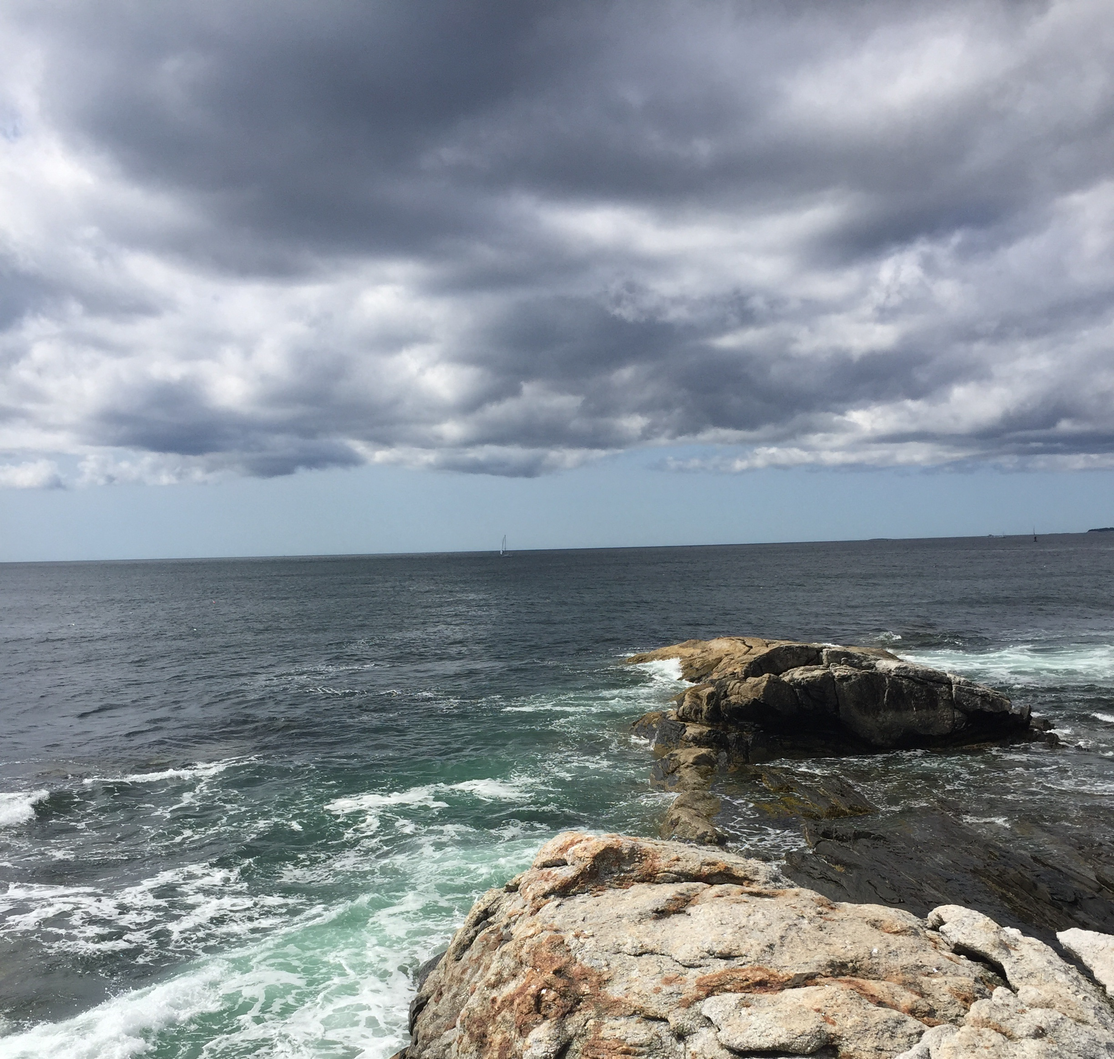
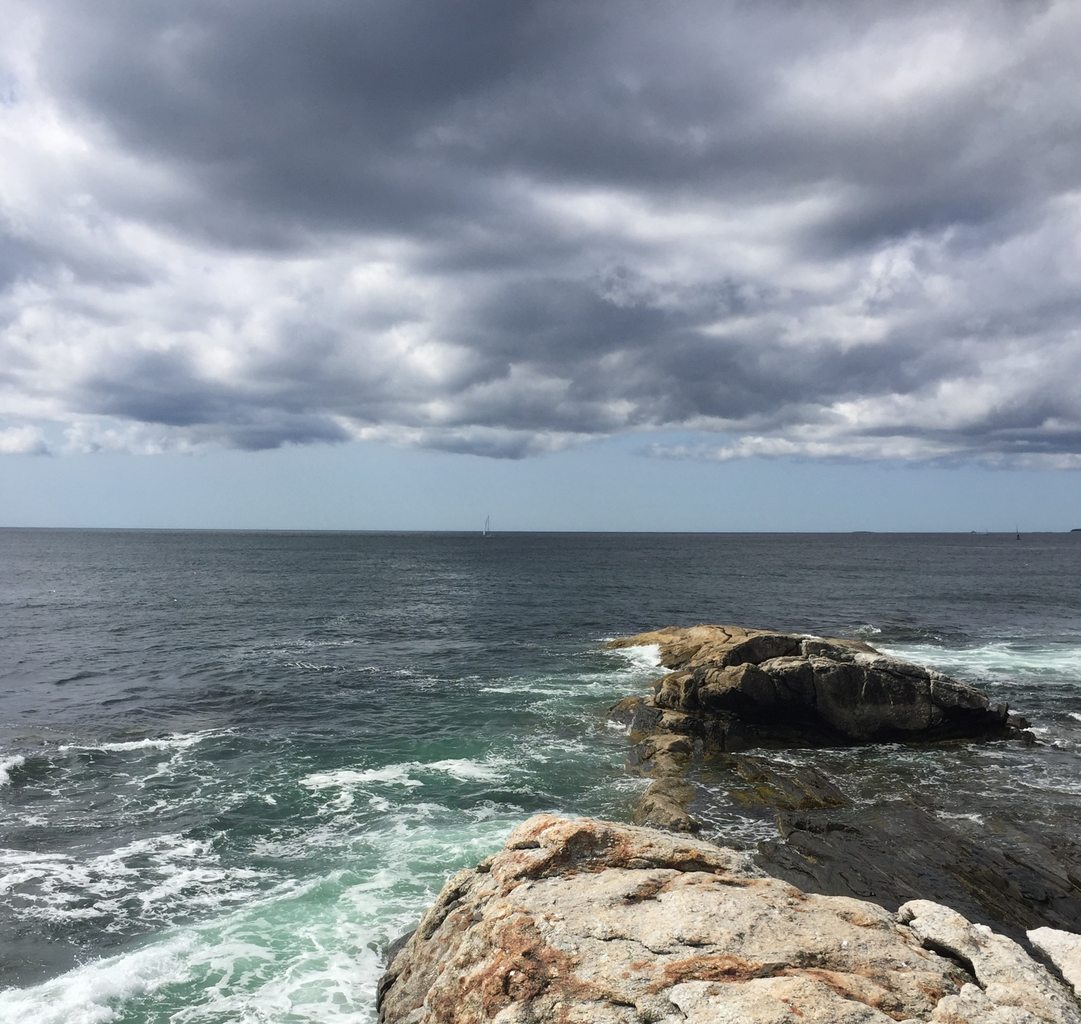
Color and Picture changes

diff --git a/css/creative.css b/css/creative.css
@@ -119,10 +119,10 @@ body {
       #mainNav .navbar-brand {
         color: black; }
         #mainNav .navbar-brand:focus, #mainNav .navbar-brand:hover {
-          color: white; }
+          color: #e60000; }
       #mainNav .navbar-nav > li.nav-item > a.nav-link,
       #mainNav .navbar-nav > li.nav-item > a.nav-link:focus {
-        color: rgba(255, 255, 255, 0.7); }
+        color: #e60000; }
         #mainNav .navbar-nav > li.nav-item > a.nav-link:hover,
         #mainNav .navbar-nav > li.nav-item > a.nav-link:focus:hover {
           color: white; }
@@ -147,7 +147,7 @@ header.masthead {
   min-height: auto;
   text-align: center;
   color: white;
-  background-image: url("../img/antelope_mountain.jpg");
+  background-image: url("../img/oceanRocks.jpg");
   background-position: center;
   -webkit-background-size: cover;
   -moz-background-size: cover;
